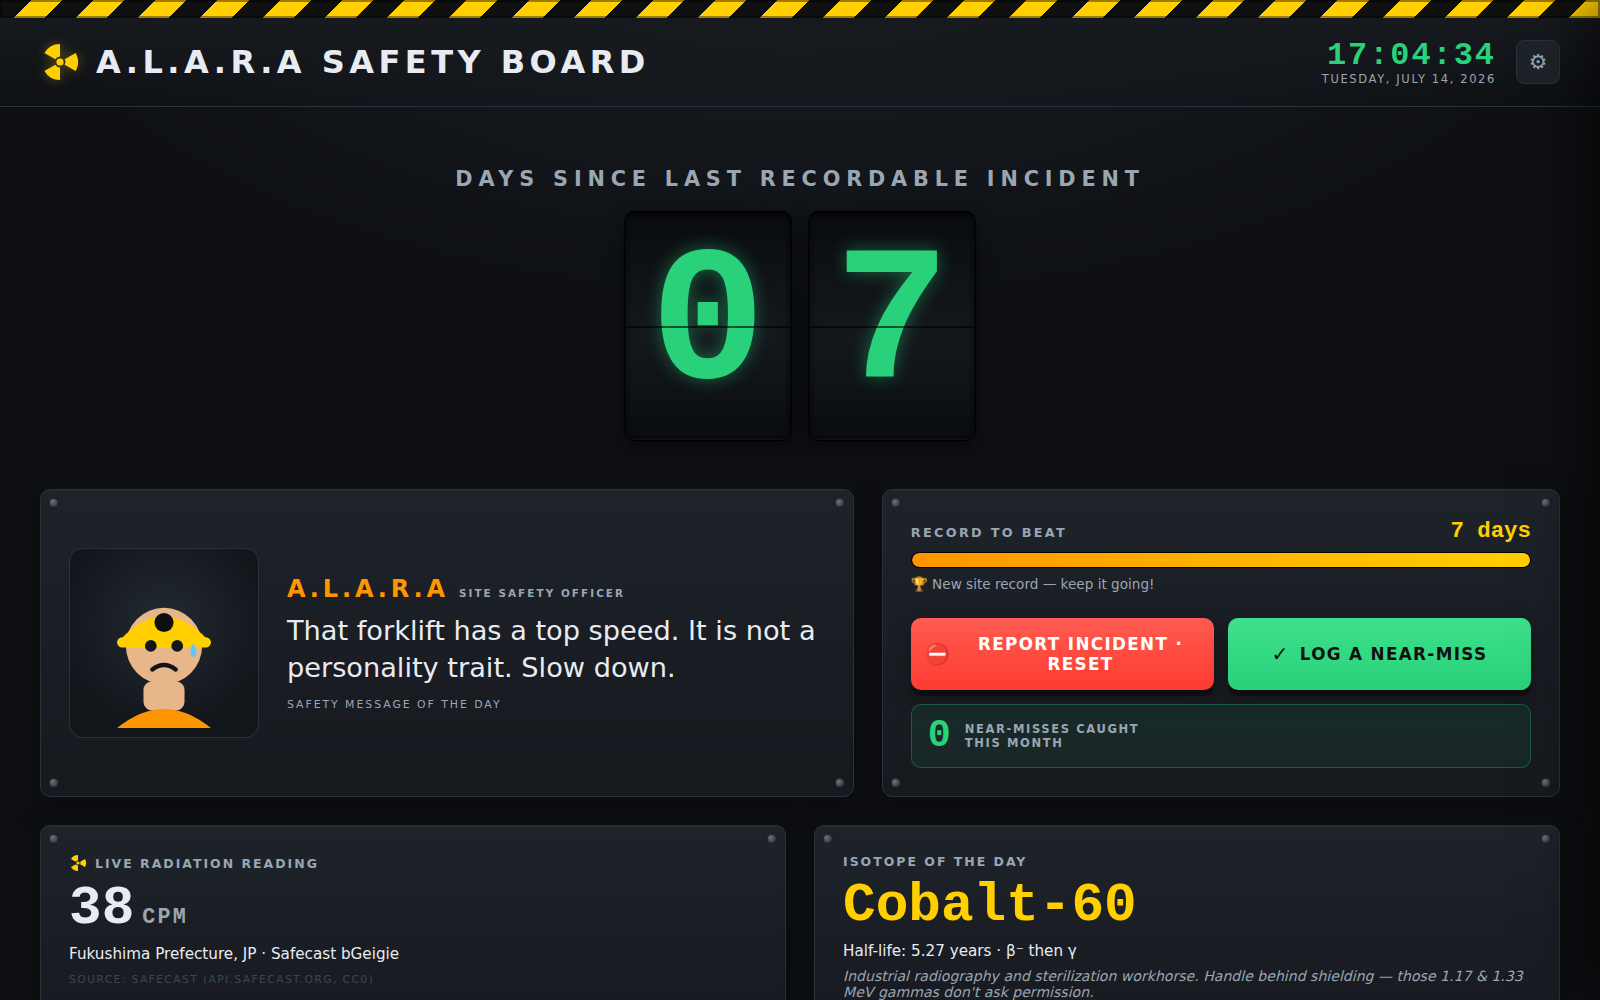
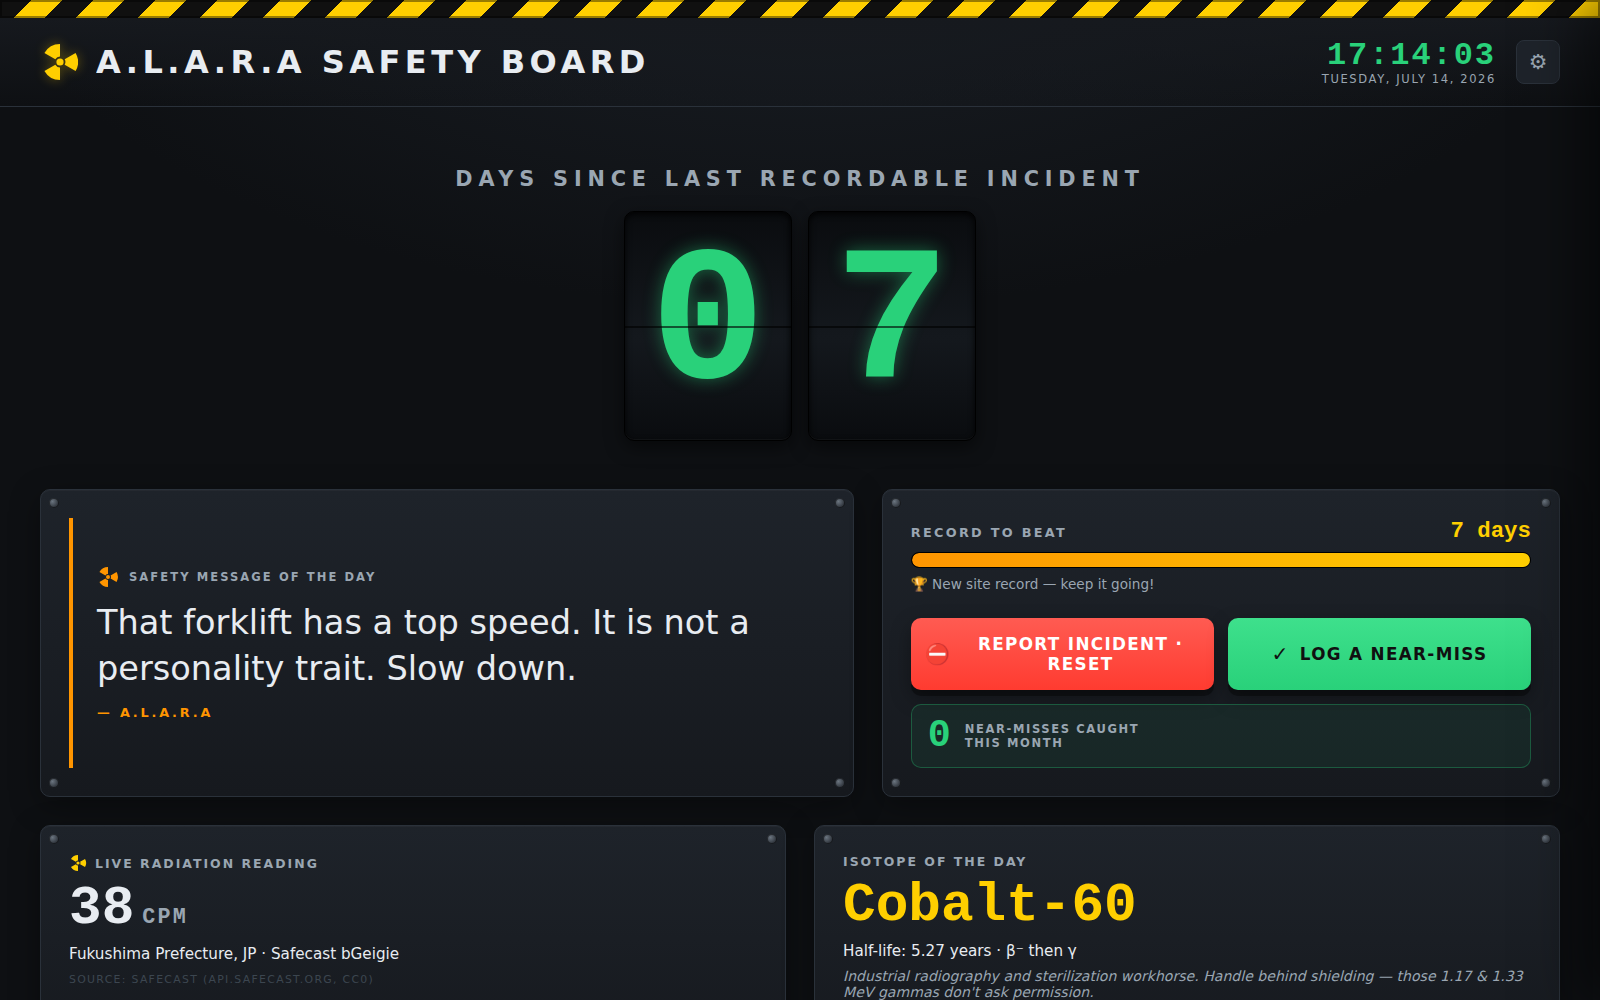
Remove A.L.A.R.A cartoon mascot; keep Safety Message of the Day
Replace the SVG mascot character with a clean message-only panel
(SafetyMessage). The Safety Message of the Day is retained — still
A.L.A.R.A's voice, still rotating the line bank (and optional Ollama) —
but rendered as an accent-barred panel instead of a face.

A slim left accent bar tracks the streak (green healthy / amber single
digits / red on reset) in place of the old mascot moods. The reset gag
still fires the beacon and screen shake.

Claude-Session: https://claude.ai/code/session_01DYc7ewxqxqmbeErDtCRHZU

Changed region(s): [[0.0625, 0.558, 0.5, 0.744], [0.9062, 0.031, 0.9375, 0.062]]

diff --git a/src/styles.css b/src/styles.css
@@ -259,73 +259,58 @@ body {
   }
 }
 
-/* ---------------------------------------------------------------- mascot */
+/* --------------------------------------------------- safety message of day */
 
-.panel--mascot {
+.panel--message {
   display: flex;
 }
-.mascot {
+.safety-msg {
   display: flex;
-  gap: clamp(14px, 2vw, 28px);
-  align-items: center;
+  flex-direction: column;
+  justify-content: center;
   width: 100%;
+  /* accent color, retinted by tone below */
+  --accent: var(--safety-green);
+  border-left: 4px solid var(--accent);
+  padding-left: clamp(14px, 2vw, 24px);
 }
-.mascot-portrait {
-  flex: none;
-  width: clamp(110px, 14vw, 190px);
-  height: clamp(110px, 14vw, 190px);
-  background: radial-gradient(circle at 50% 40%, #232a32, #12151a 75%);
-  border: 1px solid var(--charcoal-3);
-  border-radius: 14px;
-  padding: 6px;
-}
-.mascot-speech {
-  min-width: 0;
-}
-.mascot-name {
-  font-weight: 800;
-  letter-spacing: 0.16em;
-  text-transform: uppercase;
-  font-size: clamp(1rem, 1.8vw, 1.5rem);
-  color: var(--hazard-yellow);
+.safety-msg--good { --accent: var(--safety-green); }
+.safety-msg--ok { --accent: var(--hazard-yellow); }
+.safety-msg--warn { --accent: var(--amber); }
+.safety-msg--alarm { --accent: var(--warning-red); }
+
+.safety-msg-head {
   display: flex;
-  align-items: baseline;
+  align-items: center;
   gap: 10px;
-  flex-wrap: wrap;
+  margin-bottom: 12px;
 }
-.mascot-title {
-  font-size: 0.65rem;
-  letter-spacing: 0.2em;
-  color: var(--ink-dim);
-  font-weight: 600;
+.safety-msg-trefoil {
+  color: var(--accent);
+  flex: none;
 }
-.mascot-message {
-  font-size: clamp(1.05rem, 1.9vw, 1.7rem);
-  line-height: 1.35;
-  margin: 10px 0 12px;
-  color: var(--ink);
-}
-.mascot-tag {
-  font-size: 0.68rem;
+.safety-msg-kicker {
   text-transform: uppercase;
   letter-spacing: 0.18em;
+  font-size: 0.72rem;
+  font-weight: 700;
   color: var(--ink-dim);
 }
-
-/* mascot SVG mood colors */
-.m-skin { fill: #e7b78a; }
-.m-vest { fill: var(--amber); }
-.m-hat { fill: var(--hazard-yellow); }
-.m-hat-badge { fill: var(--hazard-black); }
-.m-eye { fill: #12151a; }
-.m-mouth { fill: none; stroke: #12151a; stroke-width: 3; stroke-linecap: round; }
-.m-shades { fill: #12151a; }
-.m-sweat { fill: #5cc8ff; }
-.m-thumb { }
-
-.mascot--cool .mascot-name { color: var(--safety-green); }
-.mascot--sweating .mascot-name { color: var(--amber); }
-.mascot--faceplant .mascot-name { color: var(--warning-red); }
+.safety-msg-text {
+  font-size: clamp(1.3rem, 2.4vw, 2.1rem);
+  line-height: 1.35;
+  margin: 0;
+  color: var(--ink);
+  font-weight: 500;
+}
+.safety-msg-by {
+  margin-top: 14px;
+  text-transform: uppercase;
+  letter-spacing: 0.22em;
+  font-size: 0.8rem;
+  font-weight: 800;
+  color: var(--accent);
+}
 
 /* ---------------------------------------------------------------- record */
 

diff --git a/src/App.jsx b/src/App.jsx
@@ -4,7 +4,7 @@ import useToday from './state/useToday.js'
 import useAlaraMessage from './state/useAlaraMessage.js'
 import Clock from './components/Clock.jsx'
 import HeroCounter from './components/HeroCounter.jsx'
-import Mascot from './components/Mascot.jsx'
+import SafetyMessage from './components/SafetyMessage.jsx'
 import DailyData from './components/DailyData.jsx'
 import RecordBar from './components/RecordBar.jsx'
 import Controls from './components/Controls.jsx'
@@ -14,11 +14,11 @@ import Trefoil from './components/Trefoil.jsx'
 // Persist the Ollama toggle on its own so it's independent of board state.
 const OLLAMA_KEY = 'alara.ollama.enabled'
 
-// Map streak length to A.L.A.R.A's baseline mood.
-function moodForStreak(streak) {
-  if (streak <= 9) return 'sweating'
-  if (streak <= 29) return 'okay'
-  return 'cool'
+// Map streak length to the message panel's accent tone.
+function toneForStreak(streak) {
+  if (streak <= 9) return 'warn'
+  if (streak <= 29) return 'ok'
+  return 'good'
 }
 
 export default function App() {
@@ -53,8 +53,8 @@ export default function App() {
     context,
   })
 
-  // During the alarm, A.L.A.R.A faceplants; otherwise her mood tracks the streak.
-  const mood = alarm ? 'faceplant' : moodForStreak(streak)
+  // During the alarm the message accent goes red; otherwise it tracks the streak.
+  const tone = alarm ? 'alarm' : toneForStreak(streak)
 
   // The reset gag: fire the beacon/shake/faceplant, then commit the reset and
   // let it ride for a few seconds of drama before clearing.
@@ -109,9 +109,9 @@ export default function App() {
         <HeroCounter days={streak} alarm={alarm} />
 
         <div className="board-grid">
-          <div className="panel panel--mascot">
+          <div className="panel panel--message">
             <Corners />
-            <Mascot mood={mood} message={message} source={source} />
+            <SafetyMessage tone={tone} message={message} source={source} />
           </div>
 
           <div className="panel panel--stats">

diff --git a/src/components/SafetyMessage.jsx b/src/components/SafetyMessage.jsx
@@ -1,0 +1,21 @@
+import Trefoil from './Trefoil.jsx'
+
+// Safety Message of the Day. Formerly delivered by the A.L.A.R.A cartoon
+// mascot; now a clean message panel. The lines are still written in
+// A.L.A.R.A's voice and rotate daily from the bank (optionally upgraded by
+// local Ollama). A `tone` derived from the streak just tints the accent —
+// green when the streak is healthy, amber in single digits, red on reset.
+export default function SafetyMessage({ tone = 'ok', message, source = 'bank' }) {
+  return (
+    <section className={`safety-msg safety-msg--${tone}`} aria-label="Safety Message of the Day">
+      <div className="safety-msg-head">
+        <Trefoil size={22} className="safety-msg-trefoil" />
+        <span className="safety-msg-kicker">
+          {source === 'ollama' ? 'Safety Message of the Day · live' : 'Safety Message of the Day'}
+        </span>
+      </div>
+      <p className="safety-msg-text">{message}</p>
+      <div className="safety-msg-by">— A.L.A.R.A</div>
+    </section>
+  )
+}

diff --git a/README.md b/README.md
@@ -5,8 +5,8 @@ radioactive materials. It runs fullscreen on a wall monitor (kiosk-style) and
 makes the "Days Since Last Recordable Incident" streak impossible to ignore —
 with enough humor that the crew actually looks up.
 
-Named after **ALARA** — *As Low As Reasonably Achievable* — who is also the
-board's hard-hat mascot and site safety officer.
+Named after **ALARA** — *As Low As Reasonably Achievable* — the voice behind
+the board's daily safety message.
 
 ![Board](docs/preview.png)
 
@@ -17,13 +17,12 @@ board's hard-hat mascot and site safety officer.
 - **Hero counter** — "Days Since Last Recordable Incident" as big industrial
   digit tiles. The number is **derived from a stored last-incident date**, so it
   self-corrects across reboots and ticks over at midnight on its own.
-- **A.L.A.R.A mascot** — a hard-hat safety officer whose mood tracks the streak:
-  cool with shades at 30+ days, steady at 10–29, sweating in single digits, and
-  a dramatic face-plant the moment you reset. She delivers the **Safety Message
-  of the Day**.
+- **Safety Message of the Day** — one of A.L.A.R.A's one-liners, rotated daily.
+  A slim accent bar tracks the streak (green when healthy, amber in single
+  digits, red on reset) so the panel reads at a glance from across the room.
 - **Report Incident · Reset** — the intentional gag. Confirms, then fires an
-  amber-beacon alarm + screen shake + mascot faceplant before resetting the
-  streak to 0. Resetting is *memorable*.
+  amber-beacon alarm + screen shake before resetting the streak to 0.
+  Resetting is *memorable*.
 - **Log a Near-Miss** — celebrated, not punished. A monthly counter that
   auto-rolls to 0 each new month. Reporting a near-miss is a **catch**.
 - **Record-to-beat + progress bar** and a **live clock**.
@@ -149,7 +148,7 @@ src/
   App.jsx                Board layout + reset-gag orchestration
   main.jsx               React entry
   styles.css             Industrial control-room styling
-  components/            HeroCounter, Mascot, Clock, DailyData, RecordBar,
+  components/            HeroCounter, SafetyMessage, Clock, DailyData, RecordBar,
                          Controls, Settings, Trefoil
   state/                 useBoard (localStorage), useToday, useAlaraMessage
   data/alaraLines.js     A.L.A.R.A's 50+ line bank (v1 brain)
